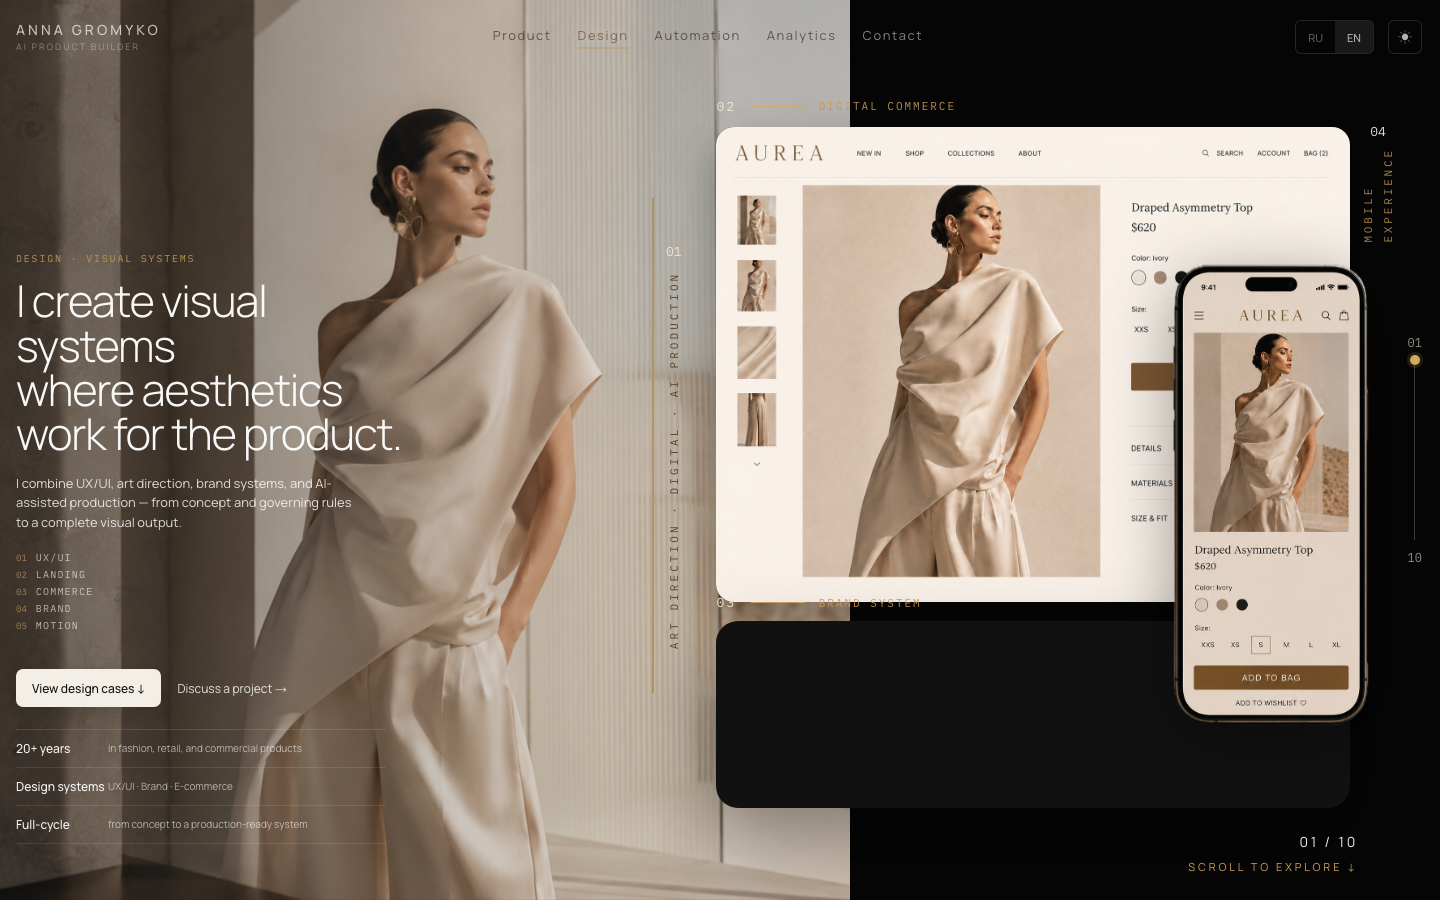
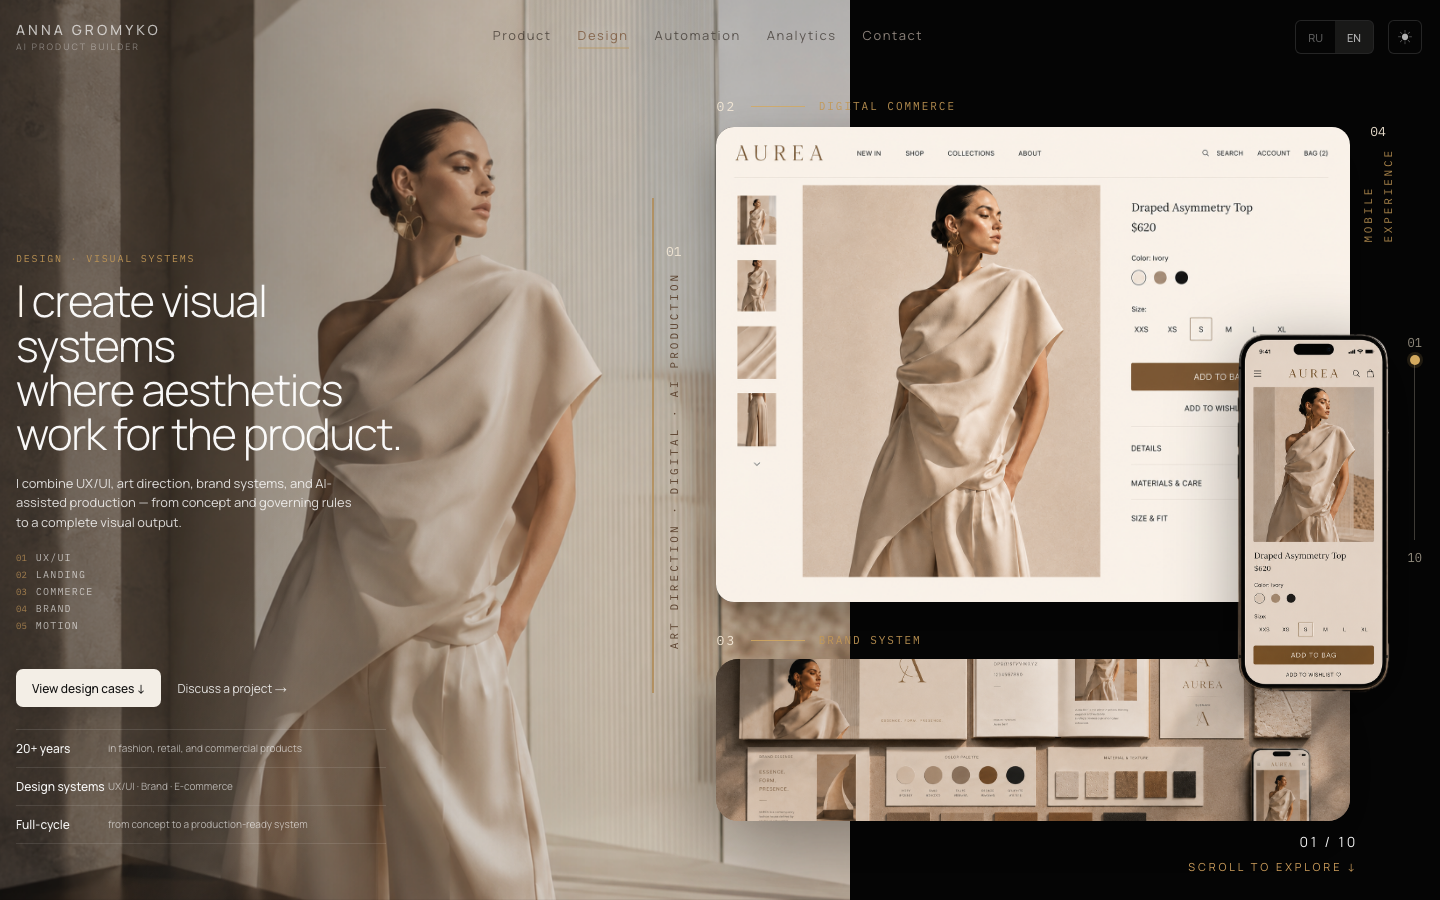
fix(design): separate hero artifact labels

Changed region(s): [[0.5, 0.28, 0.9688, 0.9333]]

diff --git a/e2e/design-approved-visual-polish.spec.ts b/e2e/design-approved-visual-polish.spec.ts
@@ -162,7 +162,7 @@ test('captures the approved visual-polish evidence set', async ({ page }) => {
 })
 
 test('hero header and artifact anchors remain aligned across the viewport matrix', async ({ page }) => {
-  test.setTimeout(60_000)
+  test.setTimeout(120_000)
   await setMode(page, 'ru', 'dark')
 
   for (const viewport of [
@@ -180,13 +180,14 @@ test('hero header and artifact anchors remain aligned across the viewport matrix
     await page.setViewportSize(viewport)
     await page.goto('/design')
     await expect(page.locator('.design-approved-hero-brand__card')).toBeVisible()
+    await page.evaluate(() => document.getAnimations().forEach((animation) => animation.finish()))
 
     const geometry = await page.evaluate(() => {
       const rect = (selector: string) => {
         const element = document.querySelector<HTMLElement>(selector)
         if (!element) return null
         const box = element.getBoundingClientRect()
-        return { left: box.left, right: box.right, top: box.top, bottom: box.bottom }
+        return { left: box.left, right: box.right, top: box.top, bottom: box.bottom, height: box.height }
       }
       return {
         scene: rect('.design-approved-hero-scene'),
@@ -196,9 +197,19 @@ test('hero header and artifact anchors remain aligned across the viewport matrix
         contact: rect('.design-approved-hero-nav__contact'),
         controls: rect('.design-approved-hero-controls'),
         rail: rect('.design-approved-chapter-rail'),
+        scrollCue: rect('.design-approved-hero-scroll-cue'),
         stack: rect('.design-approved-hero-stack'),
         phone: rect('.design-approved-hero-mobile'),
+        mobileLabel: rect('.design-approved-hero-mobile-label'),
+        commerceCard: rect('.design-approved-hero-commerce__card'),
+        brandLabelBox: rect('.design-approved-hero-brand .design-approved-hero-stack-label'),
+        brandCard: rect('.design-approved-hero-brand__card'),
+        brandImage: rect('.design-approved-hero-brand__card img'),
         brandLabel: rect('.design-approved-hero-brand .design-approved-hero-stack-label b'),
+        brandImageLoaded: Boolean(
+          document.querySelector<HTMLImageElement>('.design-approved-hero-brand__card img')?.complete
+          && document.querySelector<HTMLImageElement>('.design-approved-hero-brand__card img')?.naturalWidth,
+        ),
         resumeCount: document.querySelectorAll('.design-approved-hero-resume, #design-approved-resume-status').length,
         overflow: document.documentElement.scrollWidth - document.documentElement.clientWidth,
       }
@@ -211,12 +222,19 @@ test('hero header and artifact anchors remain aligned across the viewport matrix
     expect(geometry.contact).not.toBeNull()
     expect(geometry.controls).not.toBeNull()
     expect(geometry.rail).not.toBeNull()
+    expect(geometry.scrollCue).not.toBeNull()
     expect(geometry.stack).not.toBeNull()
     expect(geometry.phone).not.toBeNull()
+    expect(geometry.mobileLabel).not.toBeNull()
+    expect(geometry.commerceCard).not.toBeNull()
+    expect(geometry.brandLabelBox).not.toBeNull()
+    expect(geometry.brandCard).not.toBeNull()
+    expect(geometry.brandImage).not.toBeNull()
     expect(geometry.brandLabel).not.toBeNull()
     if (!geometry.scene || !geometry.brandmark || !geometry.eyebrow || !geometry.analytics
-      || !geometry.contact || !geometry.controls || !geometry.rail || !geometry.stack
-      || !geometry.phone || !geometry.brandLabel) continue
+      || !geometry.contact || !geometry.controls || !geometry.rail || !geometry.scrollCue || !geometry.stack
+      || !geometry.phone || !geometry.mobileLabel || !geometry.commerceCard
+      || !geometry.brandLabelBox || !geometry.brandCard || !geometry.brandImage || !geometry.brandLabel) continue
 
     expect(Math.abs(geometry.brandmark.left - geometry.eyebrow.left)).toBeLessThanOrEqual(.5)
     expect(geometry.analytics.right).toBeLessThanOrEqual(geometry.scene.right - 12)
@@ -224,6 +242,19 @@ test('hero header and artifact anchors remain aligned across the viewport matrix
     expect(Math.abs(geometry.controls.right - geometry.rail.right)).toBeLessThanOrEqual(.5)
     expect(geometry.phone.right - geometry.stack.right).toBeCloseTo(112, 0)
     expect(geometry.phone.top).toBeGreaterThan(geometry.stack.top + 100)
+    expect(geometry.phone.top).toBeGreaterThanOrEqual(geometry.mobileLabel.bottom + 4)
+    expect(
+      geometry.phone.bottom <= geometry.scrollCue.top - 4
+      || geometry.phone.right <= geometry.scrollCue.left - 4,
+      `${viewport.width}×${viewport.height}: phone overlaps the scroll cue`,
+    ).toBe(true)
+    expect(geometry.brandLabelBox.top).toBeGreaterThanOrEqual(geometry.commerceCard.bottom + 8)
+    expect(geometry.brandCard.height).toBeGreaterThanOrEqual(80)
+    expect(
+      geometry.brandImage.height,
+      `${viewport.width}×${viewport.height}: Brand System image has no rendered height`,
+    ).toBeGreaterThanOrEqual(80)
+    expect(geometry.brandImageLoaded).toBe(true)
     expect(geometry.brandLabel.right).toBeLessThanOrEqual(geometry.phone.left)
     expect(geometry.resumeCount).toBe(0)
     expect(geometry.overflow).toBeLessThanOrEqual(0)

diff --git a/src/features/design-approved/DesignApprovedPolish.css b/src/features/design-approved/DesignApprovedPolish.css
@@ -177,9 +177,9 @@ html[data-page='design'] :is(
 
   .design-approved-page .design-approved-hero-stack {
     --design-hero-commerce-top: clamp(42px, 5.5vh, 50px);
-    --design-hero-panel-label-space: clamp(26px, 2.2vw, 30px);
-    --design-hero-panel-overlap: clamp(6px, .6vw, 10px);
-    --design-hero-brand-bottom: clamp(42px, 5.5vh, 60px);
+    --design-hero-panel-label-space: clamp(42px, 3.3vw, 48px);
+    --design-hero-panel-gap: clamp(10px, .8vw, 14px);
+    --design-hero-brand-bottom: clamp(30px, 4vh, 48px);
   }
 
   .design-approved-page .design-approved-hero-commerce {
@@ -191,7 +191,7 @@ html[data-page='design'] :is(
       var(--design-hero-commerce-top)
       + var(--design-hero-panel-label-space)
       + 33vw
-      - var(--design-hero-panel-overlap)
+      + var(--design-hero-panel-gap)
     );
     bottom: var(--design-hero-brand-bottom);
     height: auto;
@@ -203,9 +203,20 @@ html[data-page='design'] :is(
     justify-content: flex-start;
   }
 
+  .design-approved-page .design-approved-hero-brand__card {
+    min-height: 0;
+    height: calc(100% - 28px);
+    background:
+      #111
+      url('/assets/design-approved/hero-brand.png')
+      0 center / cover
+      no-repeat;
+  }
+
   .design-approved-page .design-approved-hero-mobile {
-    top: calc(6% + 66px);
+    top: calc(6% + 158px);
     right: -112px;
+    width: min(382px, 33vh);
   }
 }
 

diff --git a/e2e/design-approved-visual.spec.ts b/e2e/design-approved-visual.spec.ts
@@ -229,9 +229,9 @@ ${Object.entries(regionDiffs).map(([name, percent]) => `- ${name}: ${percent.toF
   expect(geometry.heading).toMatchObject({ fontSize: '43.92px', lineHeight: '44.3592px', maxWidth: '408px', width: 390.578125, height: 177.4375 })
   expect(geometry.axis).toMatchObject({ left: 652, top: 198, height: 495 })
   expect(geometry.stack).toMatchObject({ right: 90, top: 48, width: 633.59375, height: 810 })
-  expect(geometry.mobile).toMatchObject({ width: 382 })
-  expect(relative).toEqual({ mobileTop: 114.59375, mobileRight: -112, commerceTop: 49.5, brandBottom: 49.5 })
-  expect(geometry.brand).toMatchObject({ height: 214.453125 })
+  expect(geometry.mobile).toMatchObject({ width: 297 })
+  expect(relative).toEqual({ mobileTop: 206.59375, mobileRight: -112, commerceTop: 49.5, brandBottom: 36 })
+  expect(geometry.brand).toMatchObject({ height: 190.265625 })
   expect(geometry.scrollCue).toMatchObject({ right: 82, bottom: 26 })
   expect(overall.percent).toBeLessThanOrEqual(1)
 })

diff --git a/e2e/portfolio.spec.ts b/e2e/portfolio.spec.ts
@@ -360,8 +360,8 @@ test('canonical design route isolates the exact approved hero', async ({ page })
   expect(geometry.axis).toMatchObject({ top: 198, left: 652, width: 2, height: 495 })
   expect(geometry.stack).toMatchObject({ top: 48, right: 90, width: 633.59375, height: 810 })
   expect(geometry.commerce).toMatchObject({ top: 97.5, right: 90, width: 633.59375 })
-  expect(geometry.brand).toMatchObject({ right: 90, bottom: 91.5, width: 633.59375, height: 214.453125 })
-  expect(geometry.mobile).toMatchObject({ right: -22, width: 382 })
+  expect(geometry.brand).toMatchObject({ right: 90, bottom: 78, width: 633.59375, height: 190.265625 })
+  expect(geometry.mobile).toMatchObject({ right: -22, width: 297 })
   expect(geometry.scrollCue).toMatchObject({ right: 82, bottom: 26 })
   expect(geometry.overflow).toBeLessThanOrEqual(0)
 

diff --git a/src/features/design-approved/components/DesignHero.tsx b/src/features/design-approved/components/DesignHero.tsx
@@ -117,7 +117,7 @@ export function DesignHero() {
         <div className="design-approved-hero-brand" style={{ opacity: artifactOpacity('brand') }}>
           <div className="design-approved-hero-stack-label design-approved-hero-stack-label--end"><span>03</span><i /><b>{text.heroLabelBrand}</b></div>
           <div className="design-approved-hero-brand__card">
-            <img src={A.heroBrand} alt={text.heroLabelBrand} width="1600" height="1000" decoding="async" />
+            <img src={A.heroBrand} alt={text.heroLabelBrand} width="1600" height="1000" loading="eager" fetchPriority="high" decoding="sync" />
           </div>
         </div>
       </div>
